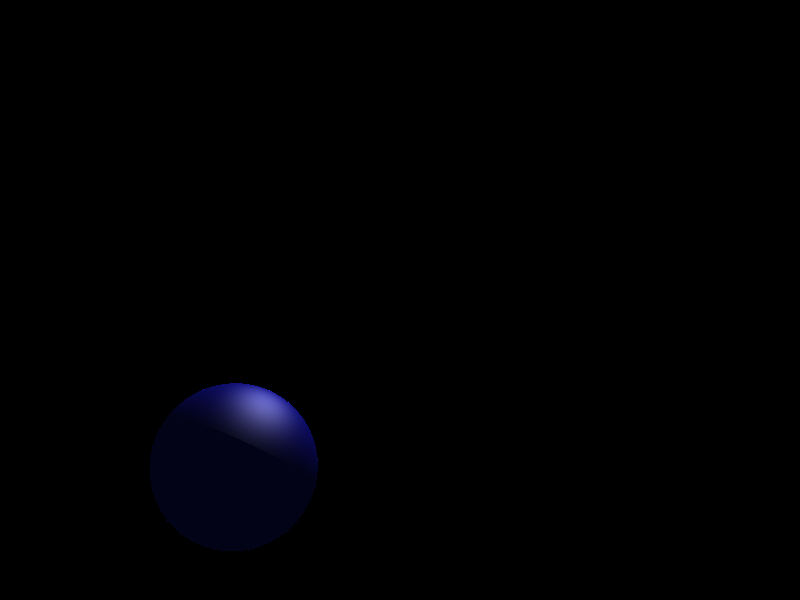
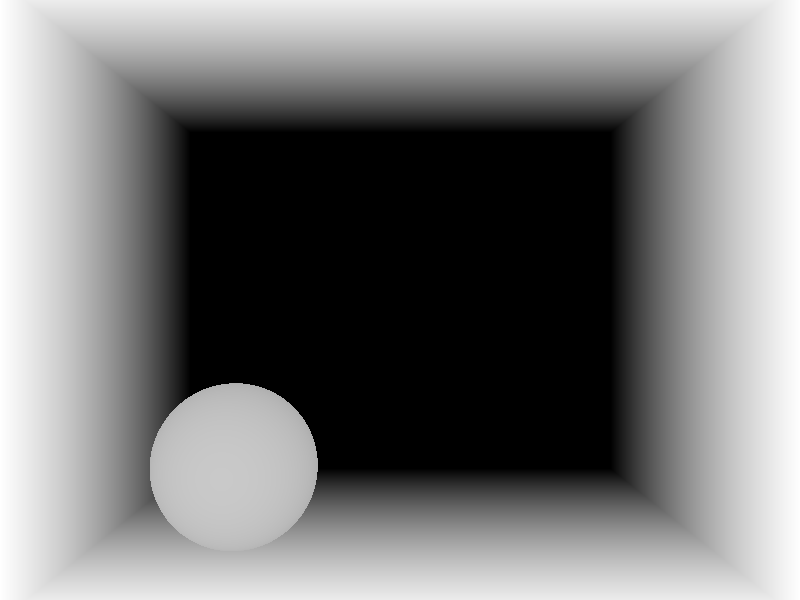
Plane intersect With Plane bug

diff --git a/BHRayTracer/Main.cpp b/BHRayTracer/Main.cpp
@@ -94,7 +94,7 @@ void BeginRender() {
 	}
 	renderImage.ComputeZBufferImage();
 	renderImage.SaveZImage("Resource/Result/prj5.png");
-	renderImage.SaveImage("Resource/Result/prj5.png");
+	//renderImage.SaveImage("Resource/Result/prj5.png");
 }
 void StopRender() {
 
@@ -137,12 +137,12 @@ float GenLight::Shadow(Ray ray, float t_max /*= BIGFLOAT*/)
 
 
 int main() {
-	const char* filename = "Resource/Data/proj4.xml";
+	const char* filename = "Resource/Data/proj5.xml";
 	LoadScene(filename);
 
 	printf("Render image width: %d\n", renderImage.GetWidth());
 	printf("Render image height: %d", renderImage.GetHeight());
-
 	ShowViewport();
+
 	return 0;
 }

diff --git a/BHRayTracer/Plane.cpp b/BHRayTracer/Plane.cpp
@@ -6,5 +6,17 @@ bool Plane::IntersectRay(Ray const &ray, HitInfo &hInfo, int hitSide /*= HIT_FRO
 	float rayPz = ray.p.z;
 	float rayDz = ray.dir.z;
 
-	return false;
+	float t = -rayPz / rayDz;
+	// hit the opposite face, or not the closest one
+	if (t < 0 || t > hInfo.z) return false;
+	// x is the hit point in the unit plane's plane
+	Vec3f x = ray.p + t * ray.dir;
+	if (x.x < -1 || x.x > 1 || x.y < -1 || x.y > 1) {
+		return false;
+	}
+	hInfo.p = x;
+	hInfo.N = Vec3f(0, 0, 1);
+	hInfo.front = true;
+	hInfo.z = t;
+	return true;
 }

diff --git a/BHRayTracer/DataStructure/MtlBlinn.cpp b/BHRayTracer/DataStructure/MtlBlinn.cpp
@@ -44,6 +44,7 @@ Color MtlBlinn::Shade(Ray const &ray, const HitInfo &hInfo, const LightList &lig
 		}
 	}
 	// Color that doesn't matter with light
+/*
 	{
 		// Phi is dot product of View and Normal
 		float cosPhi1 = vN.Dot(vV);
@@ -136,7 +137,7 @@ Color MtlBlinn::Shade(Ray const &ray, const HitInfo &hInfo, const LightList &lig
 
 			}
 		}
-	}
+	}*/
 	outColor += ambientColor;
 	return outColor;
 }
